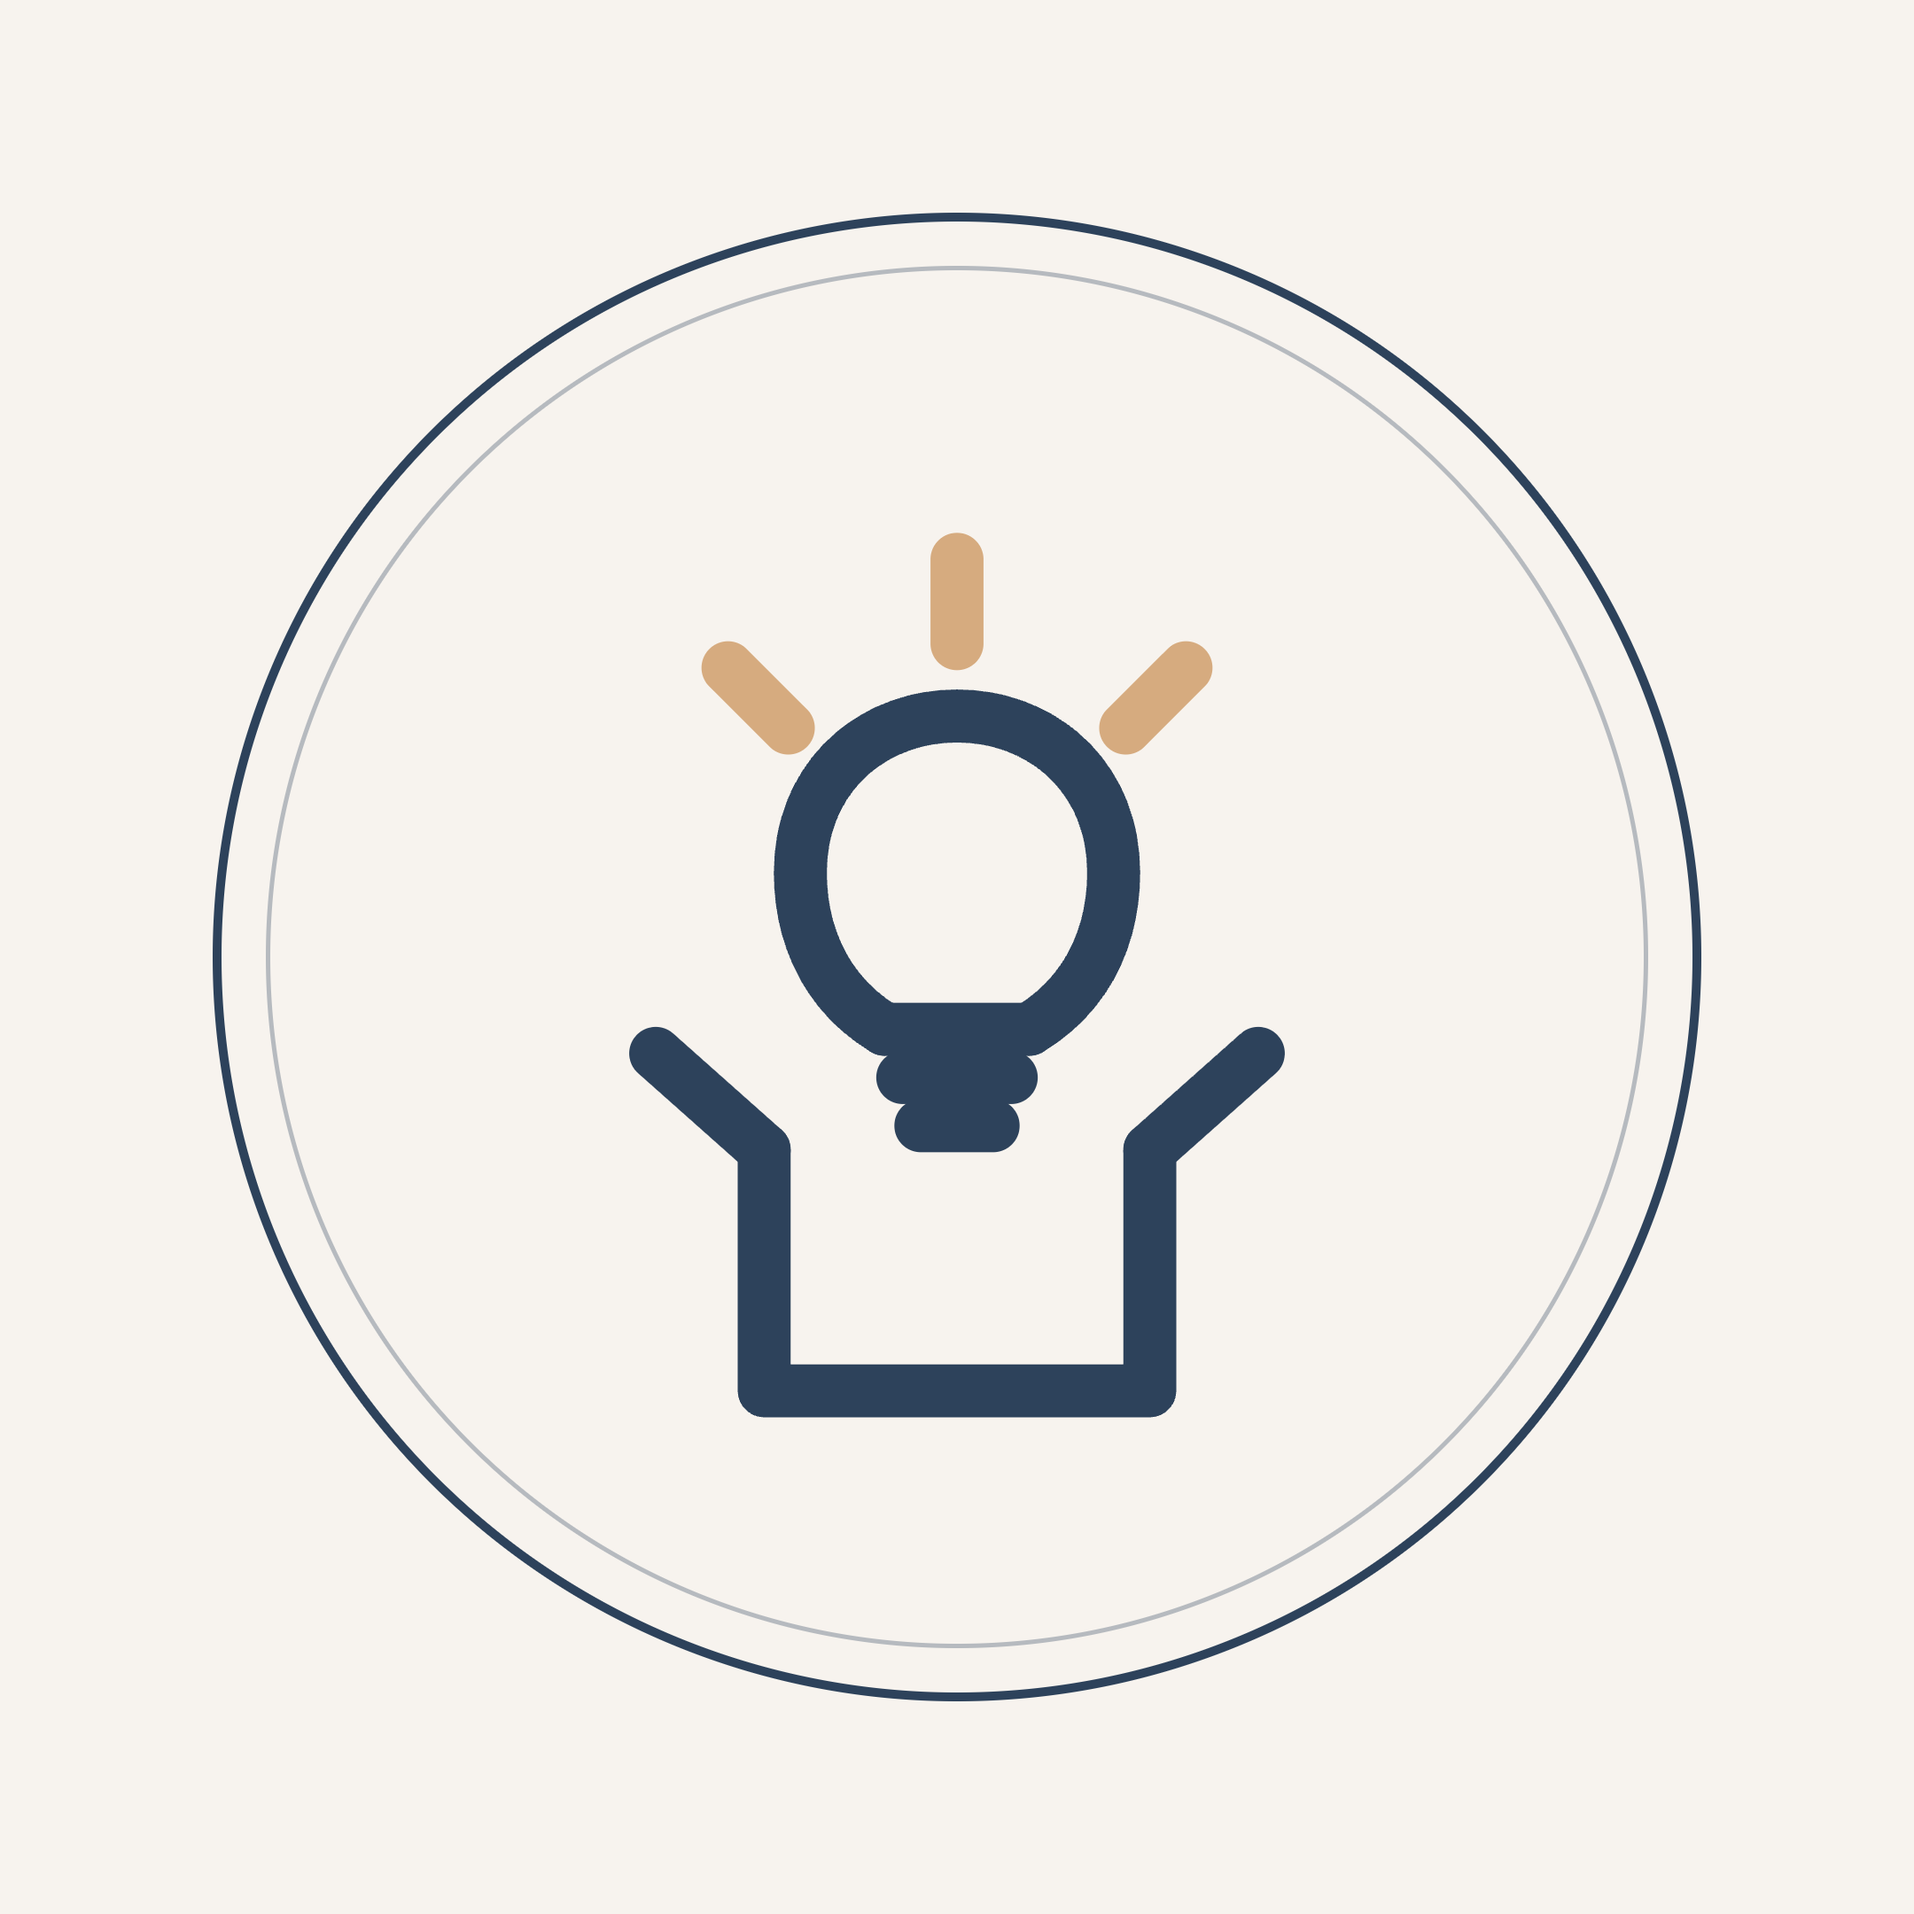
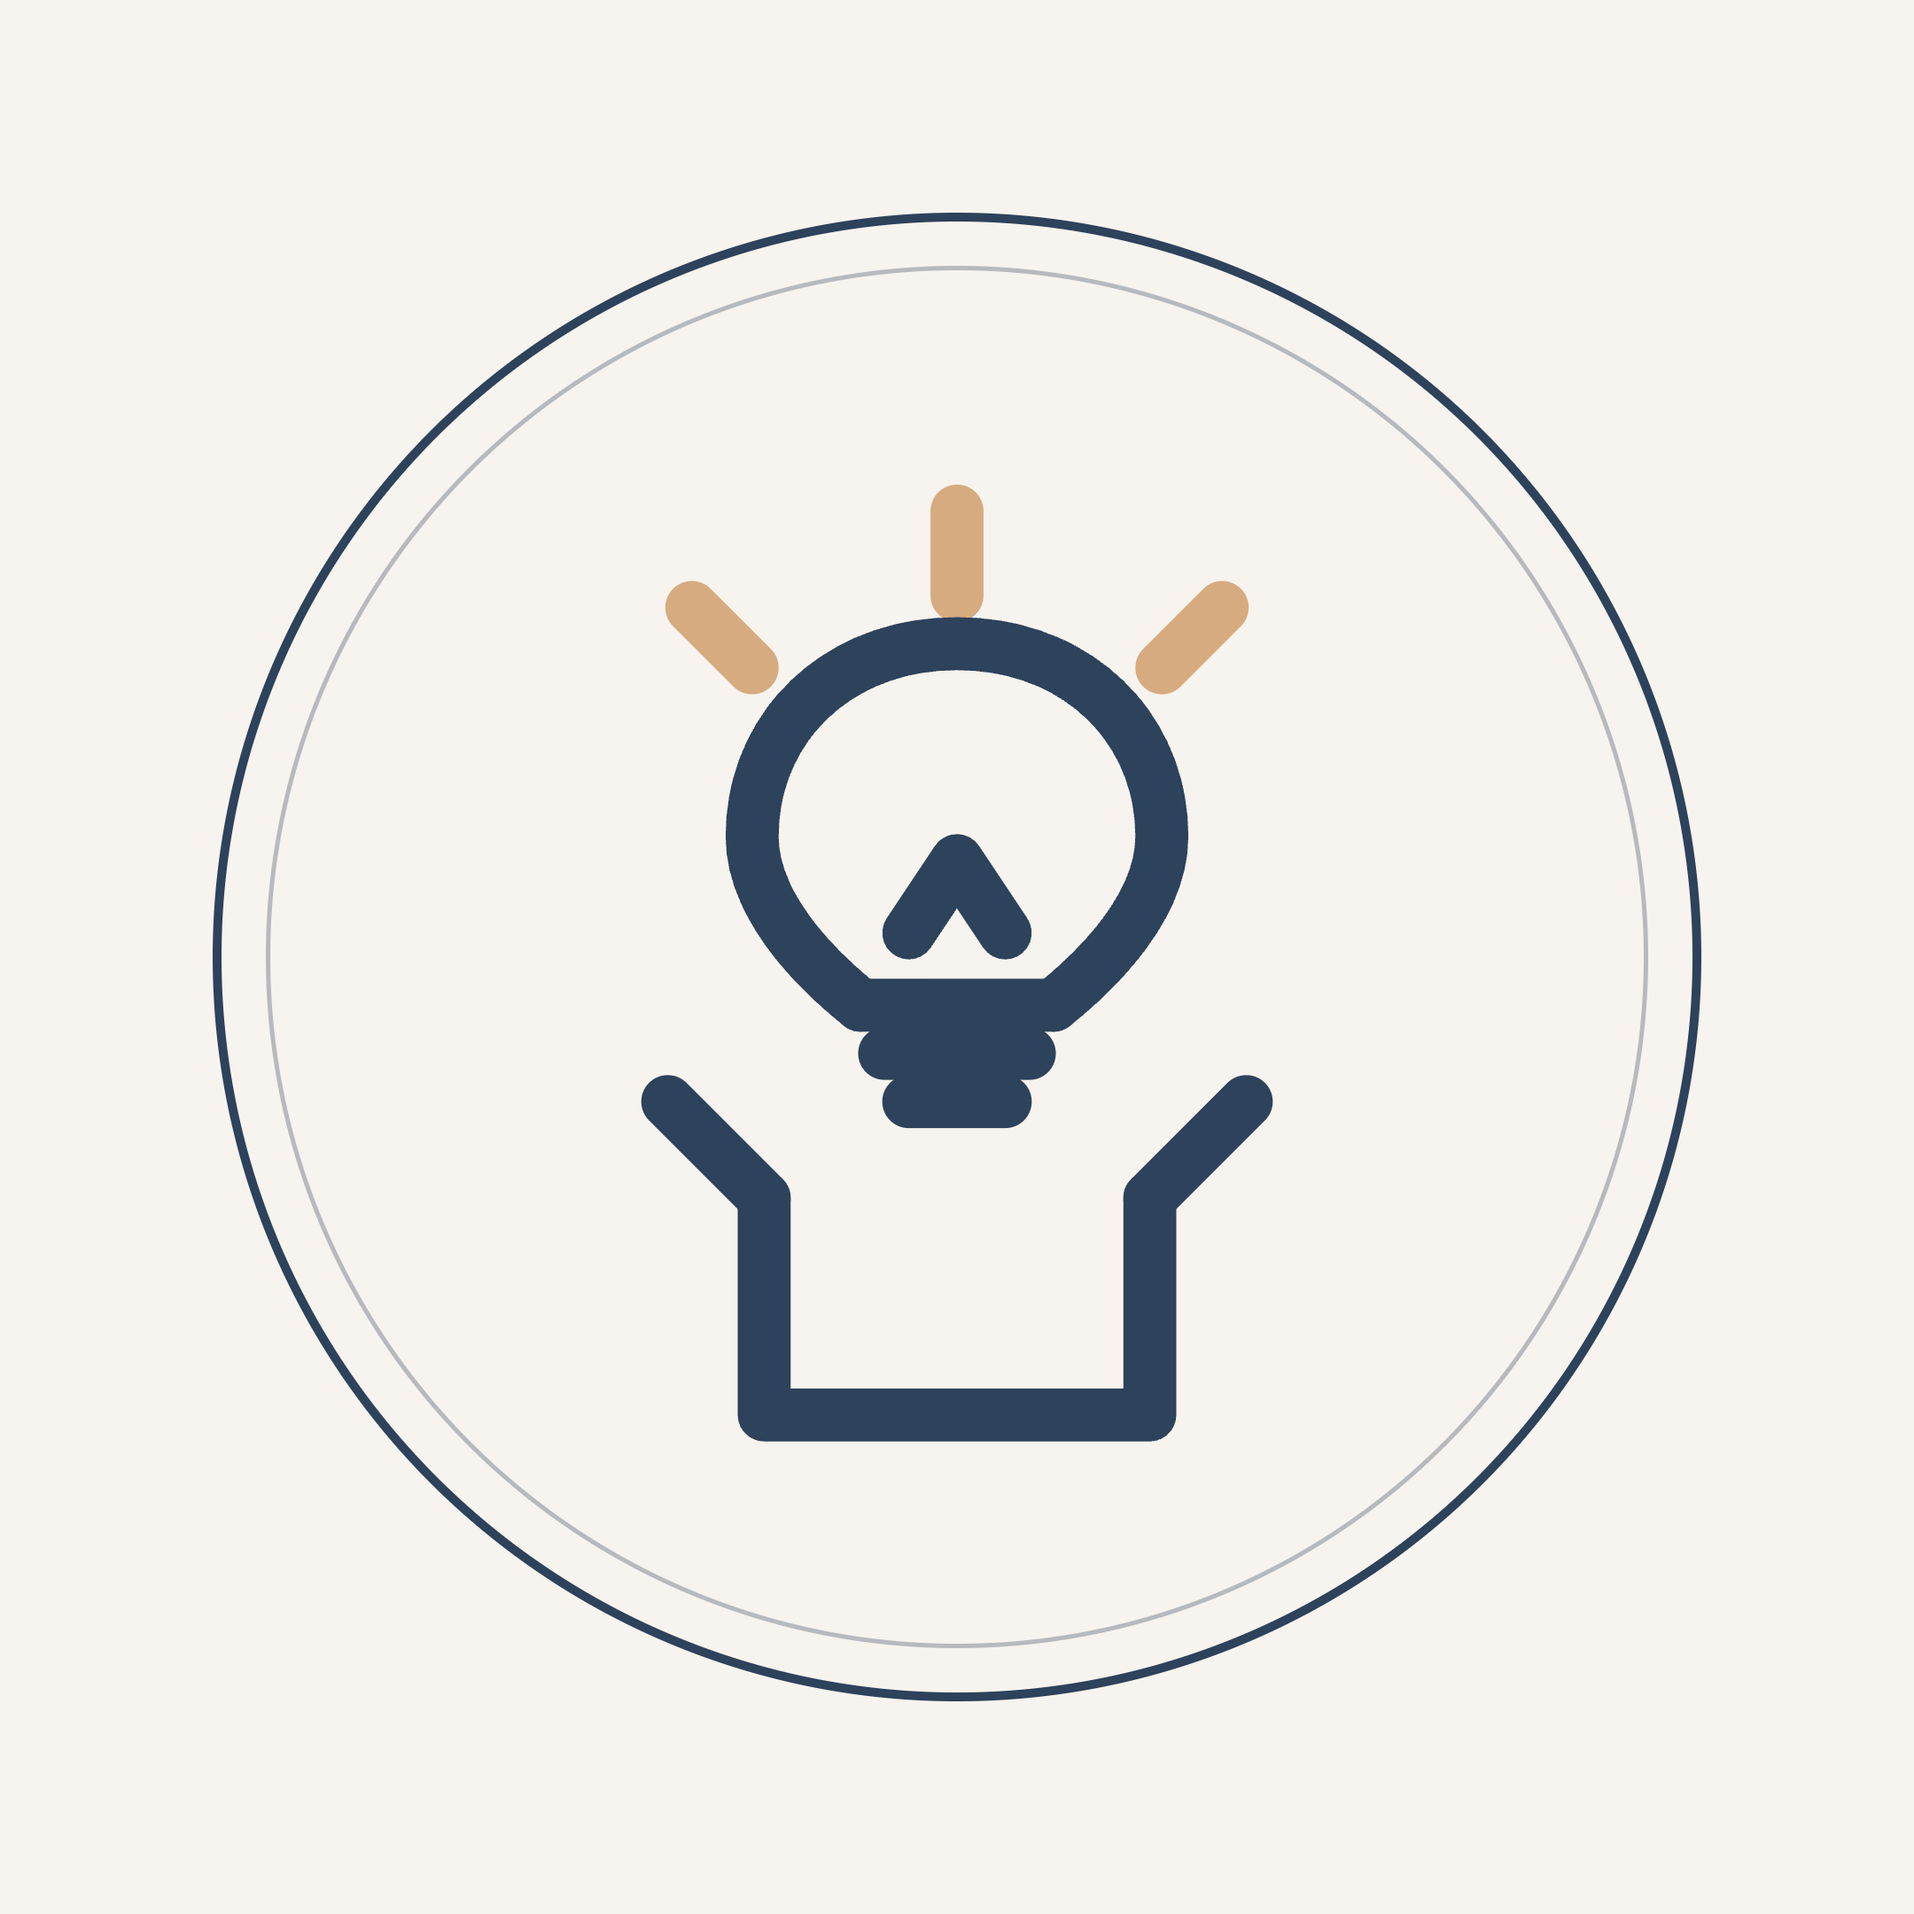
Redraw Package Ideas lightbulb: pear glass + filament + screw base
Glass now tapers to an open bottom (reads as a bulb, not a ring), with a
filament and a proper stacked screw base rising from the open box.

diff --git a/social/highlights.html b/social/highlights.html
@@ -95,19 +95,22 @@
   <div class="cell">
     <div class="stage"><div class="cover" id="cover-ideas"><div class="bubble">
       <svg class="icon" viewBox="0 0 100 100">
-        <!-- open box -->
-        <path class="s" d="M34 66 L34 86 L66 86 L66 66"/>
-        <path class="s" d="M34 66 L25 58"/>
-        <path class="s" d="M66 66 L75 58"/>
-        <!-- lightbulb rising out: glass + neck + screw base -->
-        <path class="s" d="M44 56 C39 53 37 48 37 43 C37 35 43 30 50 30 C57 30 63 35 63 43 C63 48 61 53 56 56"/>
-        <line class="s" x1="44" y1="56" x2="56" y2="56"/>
-        <line class="s" x1="45.5" y1="60" x2="54.5" y2="60"/>
-        <line class="s" x1="47" y1="64" x2="53" y2="64"/>
         <!-- tan idea glow -->
-        <line class="a" x1="50" y1="17" x2="50" y2="24"/>
-        <line class="a" x1="31" y1="26" x2="36" y2="31"/>
-        <line class="a" x1="69" y1="26" x2="64" y2="31"/>
+        <line class="a" x1="50" y1="13" x2="50" y2="20"/>
+        <line class="a" x1="28" y1="21" x2="33" y2="26"/>
+        <line class="a" x1="72" y1="21" x2="67" y2="26"/>
+        <!-- bulb glass: tapers to an open bottom so it reads as a bulb -->
+        <path class="s" d="M42 54 C37 50 33 45 33 40 C33 31 40 24 50 24 C60 24 67 31 67 40 C67 45 63 50 58 54"/>
+        <!-- filament -->
+        <path class="s" d="M46 48 L50 42 L54 48"/>
+        <!-- screw base, stacked + tapering -->
+        <line class="s" x1="42" y1="54" x2="58" y2="54"/>
+        <line class="s" x1="44" y1="58" x2="56" y2="58"/>
+        <line class="s" x1="46" y1="62" x2="54" y2="62"/>
+        <!-- open box -->
+        <path class="s" d="M34 70 L34 88 L66 88 L66 70"/>
+        <path class="s" d="M34 70 L26 62"/>
+        <path class="s" d="M66 70 L74 62"/>
       </svg>
     </div></div></div>
     <div class="label">Package Ideas</div>
